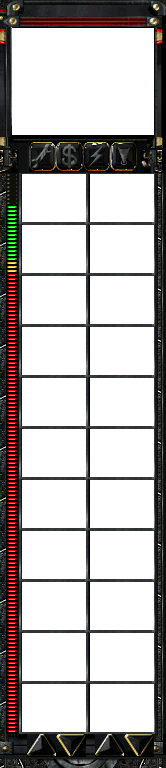
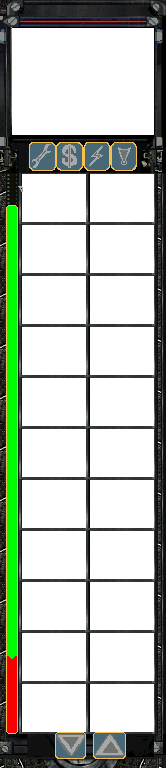
updated menu screens, hud
added parameters to pass scenario, character, and base choices to game
screen, updated hud with designers updated image

diff --git a/TheColony/TheColony/TheColony/Screens/CharacterMenu.cs b/TheColony/TheColony/TheColony/Screens/CharacterMenu.cs
@@ -11,6 +11,7 @@ namespace TheColony
 {
     public class CharacterMenu : Screen
     {
+        int Scenario;
         SpriteFont headerFont, textFont;
         String header = "Select Character";
         Texture2D card10;
@@ -62,7 +63,9 @@ namespace TheColony
 
         #endregion
 
-        public CharacterMenu() { }
+        public CharacterMenu(int s) {
+            Scenario = s;
+        }
 
         public override void Activate()
         {
@@ -100,7 +103,19 @@ namespace TheColony
                 switch (vSelectedIndex)
                 {
                     case 0:
-                        ScreenManager.AddScreen(new GameScreen());
+                        /* passes scenario and character to game screen. base defaults to 0
+                         * 0: Richard Blase
+                         * 1: Samantha Villarreal
+                         * 2: Michael Canders
+                         * 3: Leroy Jenkins
+                         * 4: Cara Diego
+                         * 5: Steven Howler
+                         * 6: JR Wilson
+                         * 7: Jessica Craft
+                         * 8: Shawna Johnson
+                         * 9: Tyson Beetley
+                         */
+                        ScreenManager.AddScreen(new GameScreen(Scenario, hSelectedIndex, 0));
                         break;
                     case 1:
                         ScreenManager.AddScreen(new ScenarionMenu());

diff --git a/TheColony/TheColony/TheColony/Screens/MainMenu.cs b/TheColony/TheColony/TheColony/Screens/MainMenu.cs
@@ -88,12 +88,11 @@ namespace TheColony
             Viewport viewport = ScreenManager.GraphicsDevice.Viewport;
             Vector2 location = position;
             Color tint;
-            Random random = new Random();
-
+            
             spriteBatch.Begin();
             
             //display title
-            spriteBatch.DrawString(headerFont, header, new Vector2((((ScreenManager.GraphicsDevice.Viewport.Width - 437) / 2) - 2) + random.Next(5), (((ScreenManager.GraphicsDevice.Viewport.Height / 4) - 82) - 2) + random.Next(5)), Color.White);
+            spriteBatch.DrawString(headerFont, header, new Vector2((ScreenManager.GraphicsDevice.Viewport.Width - 437) / 2, (ScreenManager.GraphicsDevice.Viewport.Height - 82) / 4), Color.White);
             
             //display menu items
             for (int i = 0; i < menuItems.Length; i++)

diff --git a/TheColony/TheColony/TheColony/Screens/ScenarioMenu.cs b/TheColony/TheColony/TheColony/Screens/ScenarioMenu.cs
@@ -66,7 +66,14 @@ namespace TheColony
                 switch (vSelectedIndex)
                 {
                     case 0:
-                        ScreenManager.AddScreen(new CharacterMenu());
+                        /**passes selected apocalypse to character menu screen:
+                         * 0: Nuclear Warfare
+                         * 1: Chemical Warfare
+                         * 2: Biblical Apocalypse
+                         * 3: Natural Disaster
+                         * Right now it defaults to 0
+                         */
+                        ScreenManager.AddScreen(new CharacterMenu(hSelectedIndex));
                         ScreenManager.RemoveScreen(this);
                         break;
                     case 1:

diff --git a/TheColony/TheColony/TheColony/GameScreen.cs b/TheColony/TheColony/TheColony/GameScreen.cs
@@ -12,6 +12,7 @@ namespace TheColony
     public class GameScreen : Screen
     {
         private Game game;
+        private int Scenario, Character, Base;
         private KeyboardState lastKeyboardState;
         private MouseState lastMouseState;
         private Texture2D tHud;
@@ -54,9 +55,11 @@ namespace TheColony
         private List<Character> characterList;
         private List<Tile> tileList;
 
-        public GameScreen()
+        public GameScreen(int s, int c, int b)
         {
-
+            Scenario = s;
+            Character = c;
+            Base = b;
         }
 
         public override void Activate()
